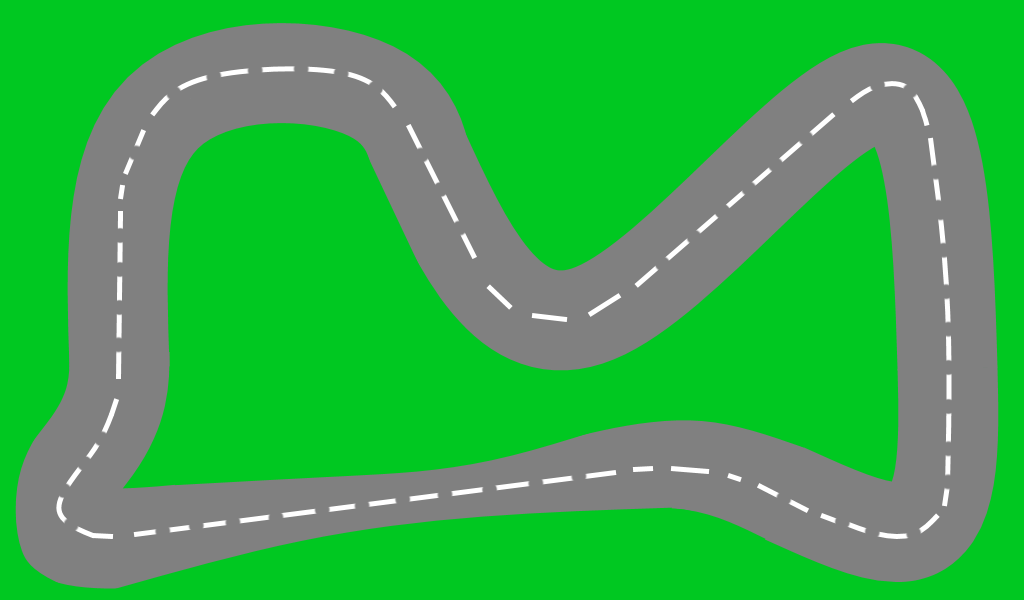
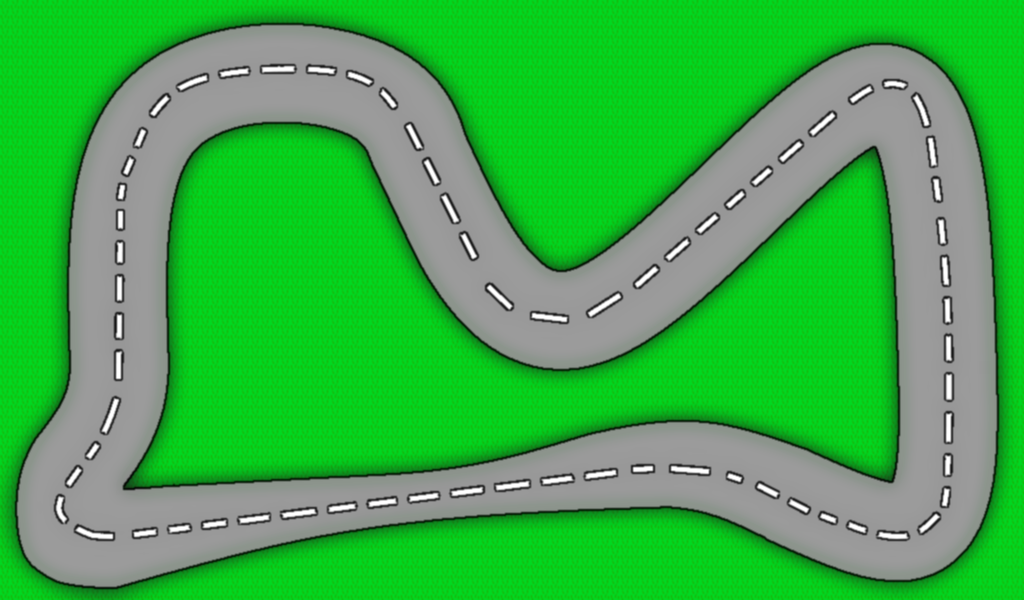
Improved graphics
The track now has more detail and the finish line aligns with the road
edges. Also added .pdn file for the track.

diff --git a/Scripts/Core/game.js b/Scripts/Core/game.js
@@ -31,6 +31,7 @@ var assetData = [
     { id: "Instructions", src: "../../Assets/images/Instructions screen.png" },
     { id: "Track", src: "../../Assets/images/track1.png" },
     { id: "FinishLine", src: "../../Assets/images/finish.png" },
+    { id: "Checkpoint", src: "../../Assets/images/checkpoint.png" },
     { id: "Block", src: "../../Assets/images/block.png" }
 ];
 function drawVirtualTrack() {
@@ -84,12 +85,13 @@ function init() {
     createjs.Ticker.on("tick", this.gameLoop, this);
     collision = new managers.Collision();
     var atlasData = {
-        images: [assets.getResult("FinishLine"), assets.getResult("Player1"), assets.getResult("Player2")],
-        frames: [[0, 0, 241, 13, 0], [0, 0, 32, 64, 1], [0, 0, 32, 64, 2]],
+        images: [assets.getResult("FinishLine"), assets.getResult("Player1"), assets.getResult("Player2"), assets.getResult("Checkpoint")],
+        frames: [[0, 0, 97, 37, 0], [0, 0, 32, 64, 1], [0, 0, 32, 64, 2], [0, 0, 241, 13, 3]],
         animations: {
             finishline: 0,
             redcar: 1,
-            bluecar: 2
+            bluecar: 2,
+            checkpoint: 3
         },
         "texturepacker": [
             "SmartUpdateHash: $TexturePacker:SmartUpdate:013a2fc3dc6ba39276db3e6758d1ddbd:84789f29f2d01b3ea1c113a3b2d1bfdc:e696b1a5c9e543dbf26d7c8d29a6d04f$",

diff --git a/Scripts/Core/game.ts b/Scripts/Core/game.ts
@@ -38,6 +38,7 @@ var assetData:objects.Asset[] = [
     {id: "Instructions", src:"../../Assets/images/Instructions screen.png"},
     {id: "Track", src:"../../Assets/images/track1.png"},
     {id: "FinishLine", src:"../../Assets/images/finish.png"},
+    {id: "Checkpoint", src:"../../Assets/images/checkpoint.png"},
     {id: "Block", src:"../../Assets/images/block.png"}
 ];
 
@@ -101,14 +102,15 @@ function init() {
     collision = new managers.Collision();
 
     let atlasData = {
-        images: [assets.getResult("FinishLine"),  assets.getResult("Player1"),  assets.getResult("Player2")],
+        images: [assets.getResult("FinishLine"),  assets.getResult("Player1"),  assets.getResult("Player2"), assets.getResult("Checkpoint")],
 
-        frames:[ [0, 0, 241, 13, 0], [0, 0, 32, 64, 1], [0, 0, 32, 64, 2]],
+        frames:[ [0, 0, 97, 37, 0], [0, 0, 32, 64, 1], [0, 0, 32, 64, 2], [0, 0, 241, 13, 3]],
 
         animations: {
         finishline: 0,
         redcar: 1,
-        bluecar: 2
+        bluecar: 2,
+        checkpoint: 3
         },
 
         "texturepacker": [

diff --git a/Scripts/objects/player.ts b/Scripts/objects/player.ts
@@ -81,7 +81,7 @@ module objects {
             //adjust friction depending on what surface we're on
             this._pixelData = getPixel(this.position.x, this.position.y).data;
             //if the green value beneath us is >= 150 and the red value is <= 0 then we're certainly on grass
-            if (this._pixelData[1] >= 150 && this._pixelData[0] <= 0)
+            if (this._pixelData[1] >= 100 && this._pixelData[0] <= 50)
                 this._curFriction = this._GRASS_FRICTION;
             else
                 this._curFriction = this._DEFAULT_FRICTION;

diff --git a/Scripts/objects/player.js b/Scripts/objects/player.js
@@ -64,7 +64,7 @@ var objects;
             //adjust friction depending on what surface we're on
             this._pixelData = getPixel(this.position.x, this.position.y).data;
             //if the green value beneath us is >= 150 and the red value is <= 0 then we're certainly on grass
-            if (this._pixelData[1] >= 150 && this._pixelData[0] <= 0)
+            if (this._pixelData[1] >= 100 && this._pixelData[0] <= 50)
                 this._curFriction = this._GRASS_FRICTION;
             else
                 this._curFriction = this._DEFAULT_FRICTION;

diff --git a/Scripts/scenes/multiplayertrack.js b/Scripts/scenes/multiplayertrack.js
@@ -22,7 +22,7 @@ var scenes;
             this._bg = new createjs.Bitmap(assets.getResult("Track"));
             this.addChild(this._bg);
             //finish line & checkpoints
-            this._finishLine = new objects.FinishLine(118, 315);
+            this._finishLine = new objects.FinishLine(118, 288);
             this.addChild(this._finishLine);
             this._checkpoint1 = new objects.Checkpoint(880, 182);
             this.addChild(this._checkpoint1);

diff --git a/Scripts/scenes/track.js b/Scripts/scenes/track.js
@@ -21,7 +21,7 @@ var scenes;
             this._bg = new createjs.Bitmap(assets.getResult("Track"));
             this.addChild(this._bg);
             //finish line & checkpoints
-            this._finishLine = new objects.FinishLine(118, 315);
+            this._finishLine = new objects.FinishLine(118, 288);
             this.addChild(this._finishLine);
             this._checkpoint1 = new objects.Checkpoint(880, 182);
             this.addChild(this._checkpoint1);

diff --git a/Scripts/scenes/multiplayertrack.ts b/Scripts/scenes/multiplayertrack.ts
@@ -39,7 +39,7 @@ module scenes {
             this.addChild(this._bg);
 
             //finish line & checkpoints
-            this._finishLine = new objects.FinishLine(118,315);
+            this._finishLine = new objects.FinishLine(118,288);
             this.addChild(this._finishLine);
             this._checkpoint1 = new objects.Checkpoint(880,182);
             this.addChild(this._checkpoint1);

diff --git a/Scripts/scenes/track.ts b/Scripts/scenes/track.ts
@@ -33,7 +33,7 @@ module scenes {
             this.addChild(this._bg);
 
             //finish line & checkpoints
-            this._finishLine = new objects.FinishLine(118,315);
+            this._finishLine = new objects.FinishLine(118,288);
             this.addChild(this._finishLine);
             this._checkpoint1 = new objects.Checkpoint(880,182);
             this.addChild(this._checkpoint1);

diff --git a/Scripts/objects/checkpoint.js b/Scripts/objects/checkpoint.js
@@ -8,7 +8,7 @@ var objects;
     var Checkpoint = (function (_super) {
         __extends(Checkpoint, _super);
         function Checkpoint(x, y) {
-            _super.call(this, "finishline", "");
+            _super.call(this, "checkpoint", "");
             this.visible = false;
             this.x = x;
             this.y = y;

diff --git a/Scripts/objects/checkpoint.ts b/Scripts/objects/checkpoint.ts
@@ -7,7 +7,7 @@ module objects {
         public height:number;
 
         constructor(x:number, y:number) {
-            super("finishline", "");
+            super("checkpoint", "");
             this.visible = false;
             this.x = x;
             this.y = y;
